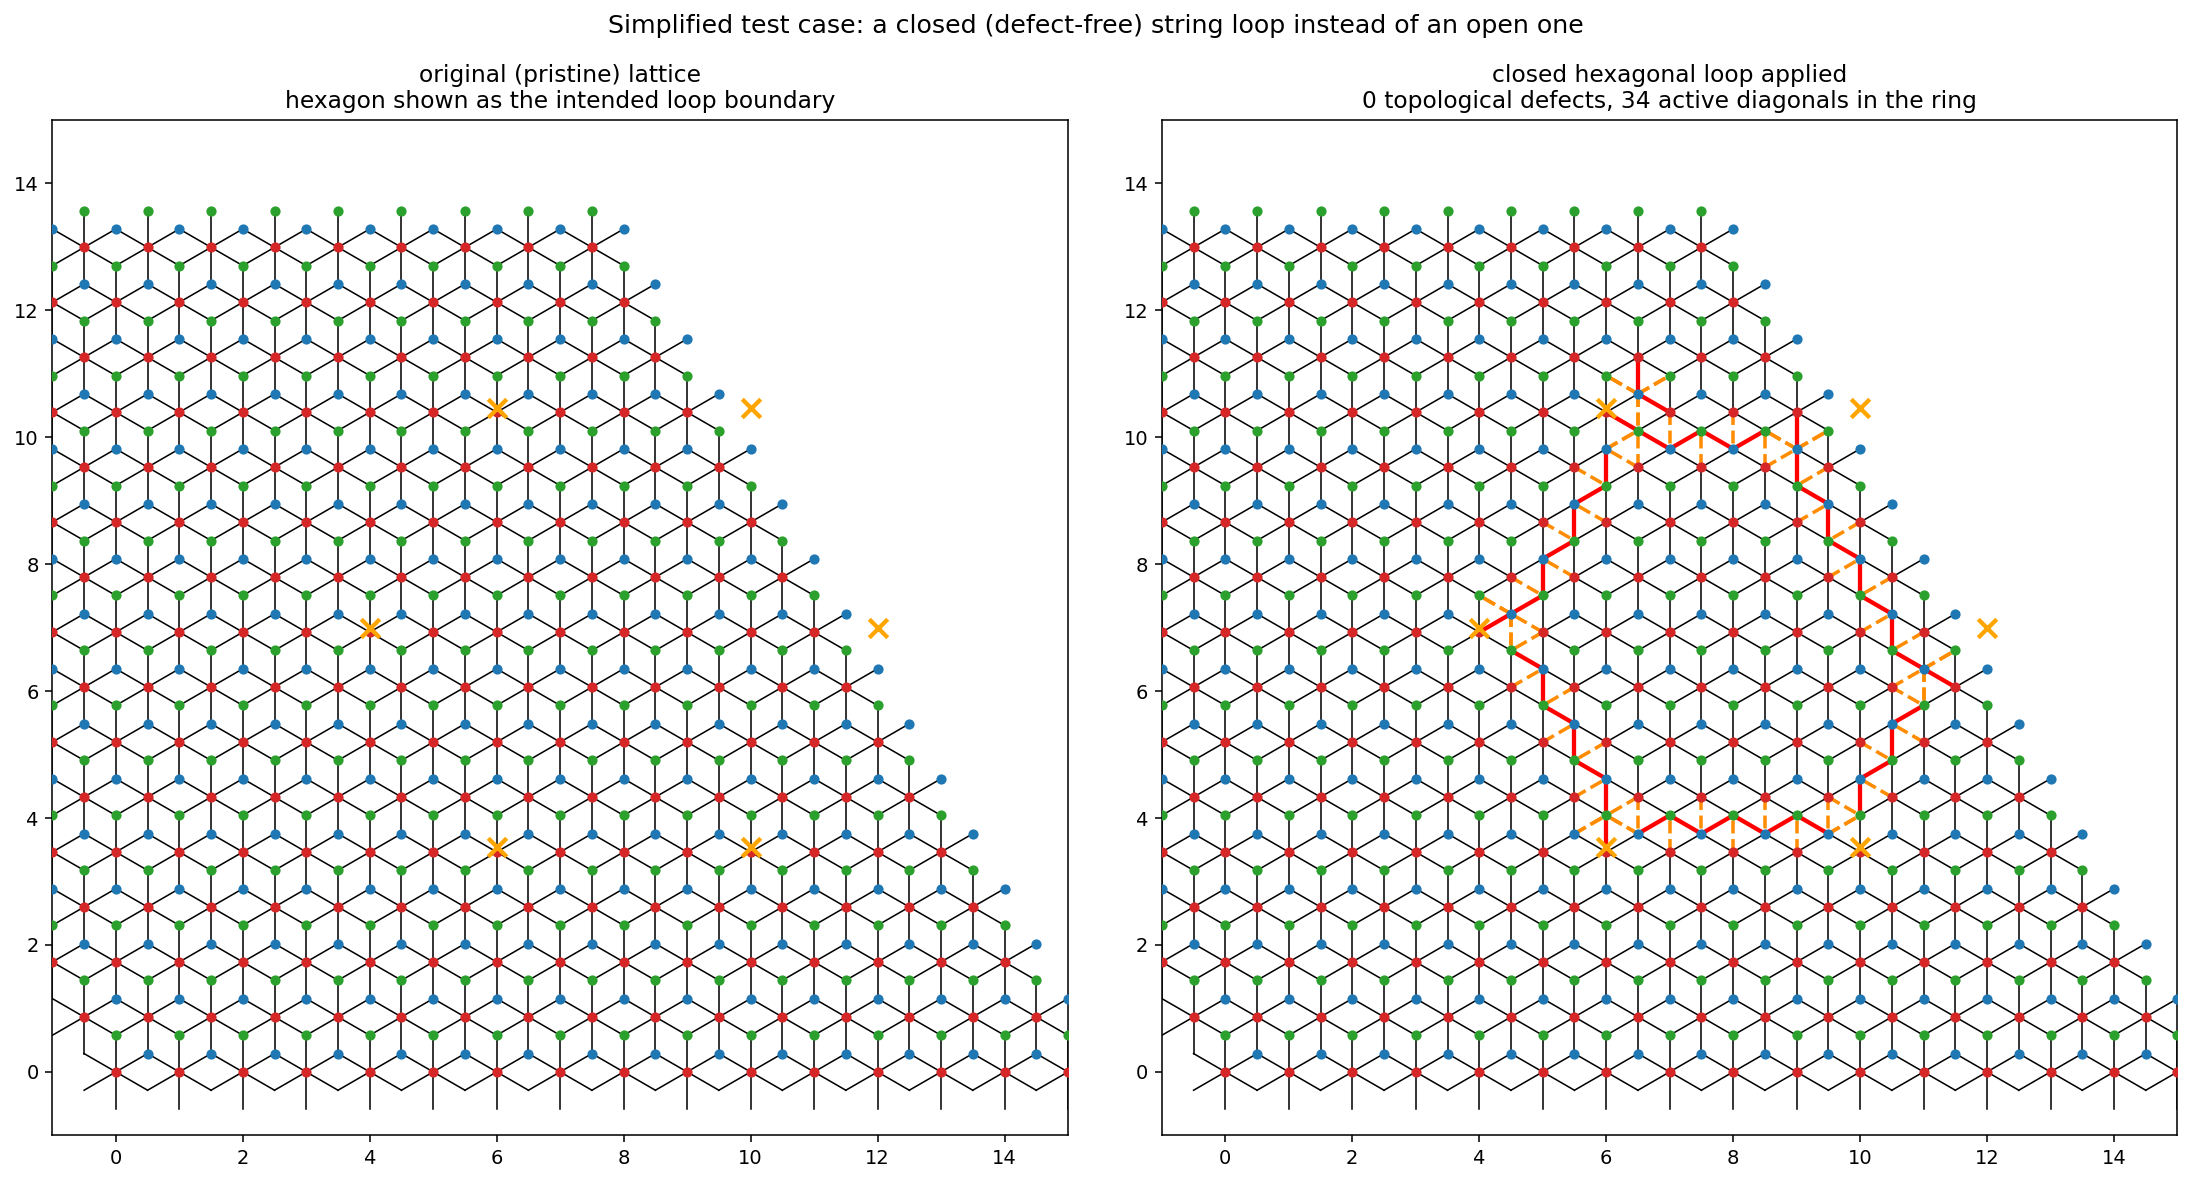
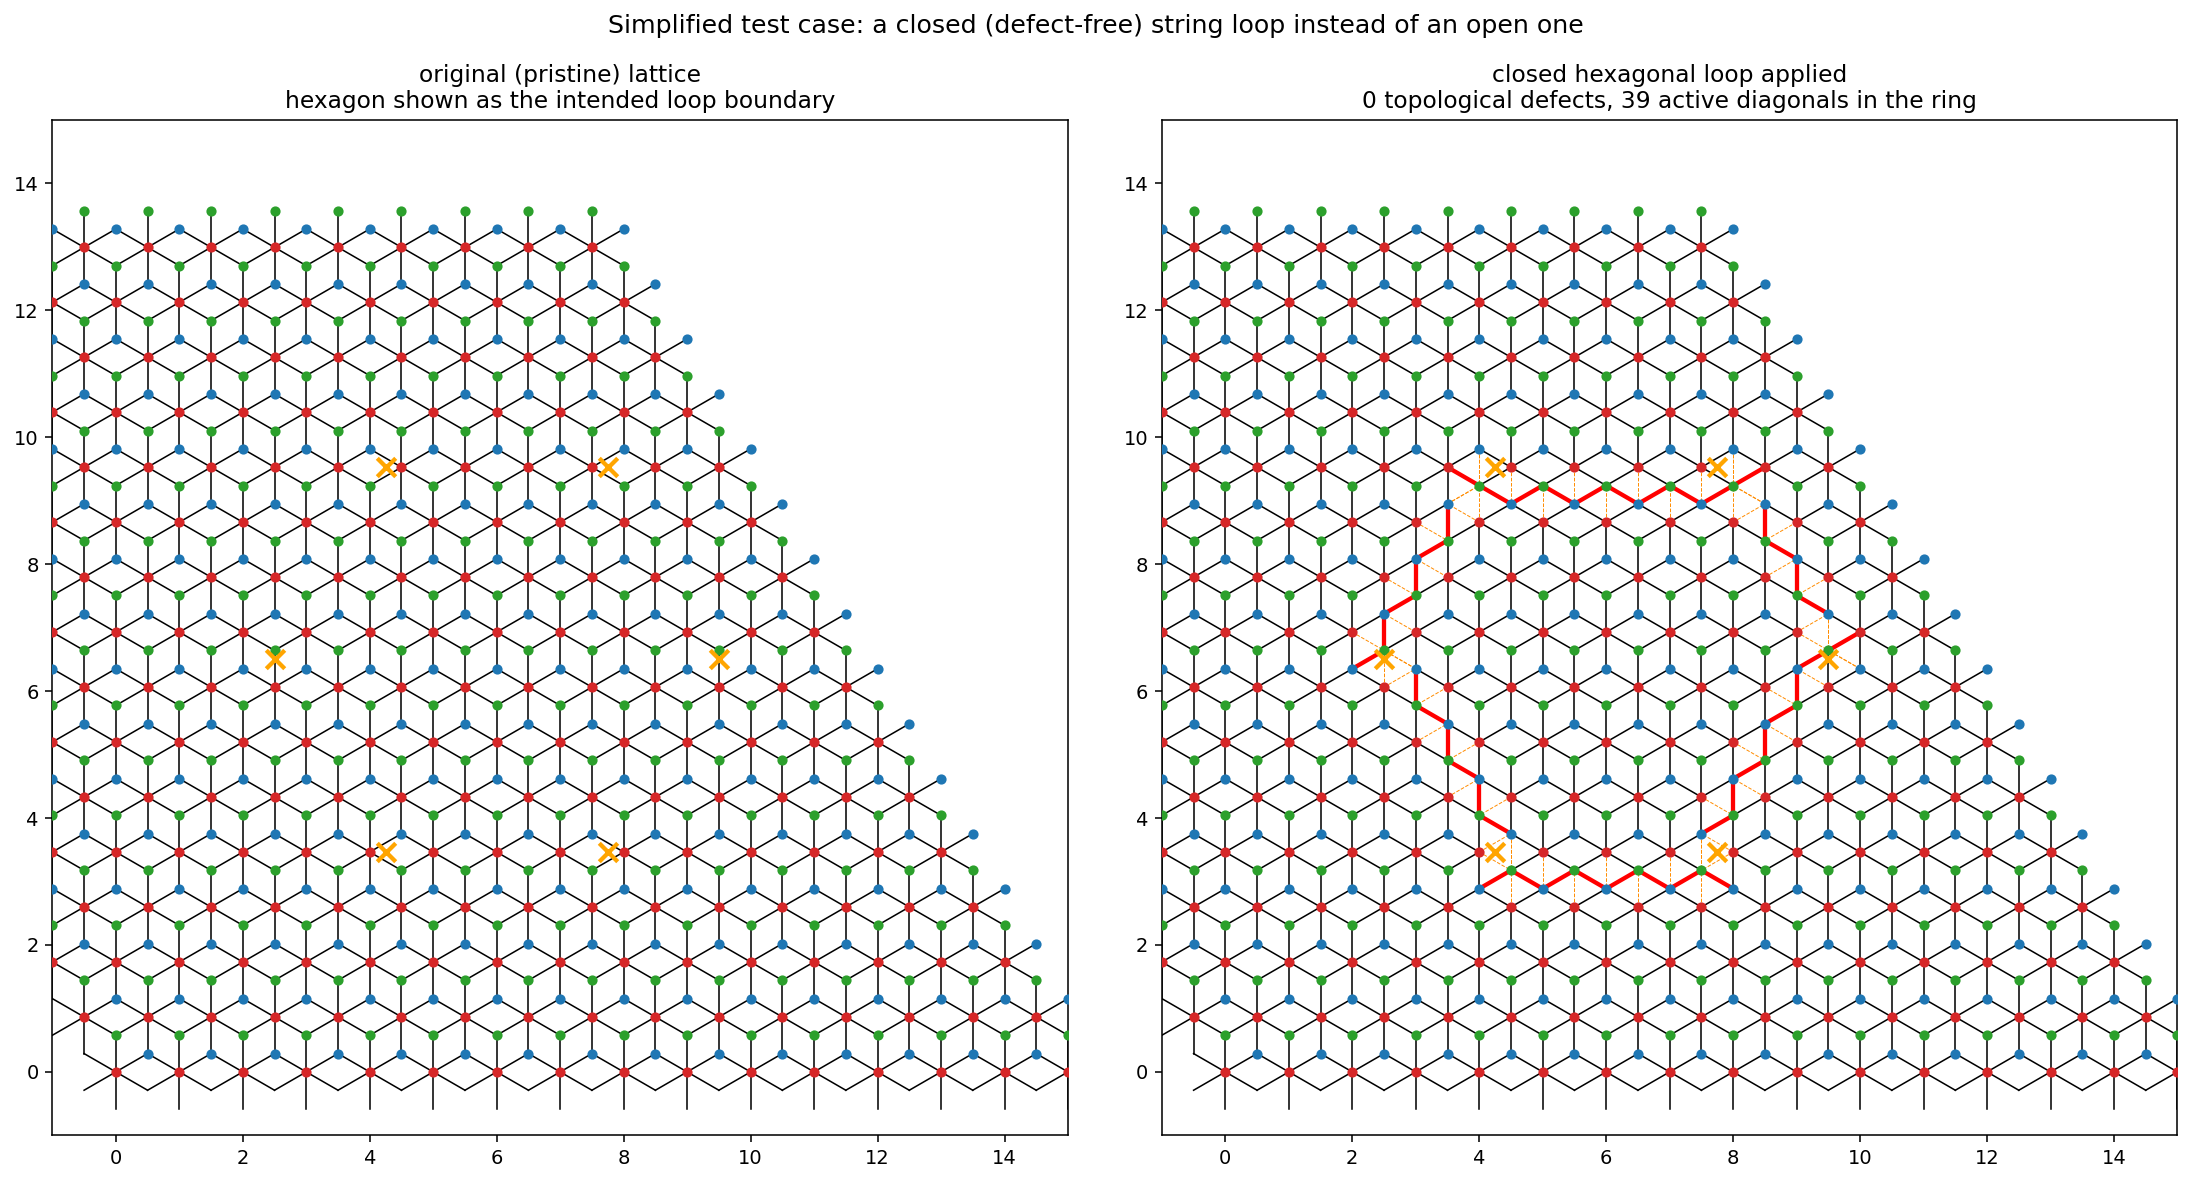
Fix closed-loop hexagon placement and de-clutter removed-link styling
Hexagon corners now sit well inside the lattice's actual (parallelogram-
shaped, not square) footprint instead of spilling past its slanted edge.
Added an off_lw option to dual_string_demo.draw_lattice (default
unchanged) so the closed-loop figure can draw removed outer edges as a
much thinner dashed line, since the full-strength dashes were confusing
next to the loop's solid highlighted diagonals.

diff --git a/closed_loop_demo.py b/closed_loop_demo.py
@@ -39,8 +39,8 @@ from dual_string_demo import draw_lattice, build_dual
 from exact_ground_state_investigation import spanning_tree_coloring_energy
 
 NX, NY = 16, 16
-CENTER = np.array([8.0, 7.0])
-RADIUS = 4.0
+CENTER = np.array([6.0, 6.5])
+RADIUS = 3.5
 N_CORNERS = 6
 
 
@@ -96,13 +96,13 @@ def closed_loop_demo():
             hub_fixed = energy_via_mincut(lat, D3)
             free = spanning_tree_coloring_energy(lat, D3)
             print(f"  {D3:<9} {hub_fixed:<19.2f} {free:.2f}")
-        print("  -> the closed loop's full active-bond graph (not just the diagonal-only\n"
-              "     conflict graph) is itself exactly 2-colorable with ZERO violations, at\n"
-              "     every D3 -- a topologically trivial (zero-net-charge) domain wall never\n"
-              "     needs the 3rd Potts state at all. hub-fixed's nonzero, D3=2-saturating\n"
-              "     curve above is therefore not just imprecise here but flatly WRONG: the\n"
-              "     same bend-induced failure mode as the open detour case, just total this\n"
-              "     time (34 claimed vs. 0 actual, instead of 53 vs. 15).")
+        print(f"  -> the closed loop's full active-bond graph (not just the diagonal-only\n"
+              f"     conflict graph) is itself exactly 2-colorable with ZERO violations, at\n"
+              f"     every D3 -- a topologically trivial (zero-net-charge) domain wall never\n"
+              f"     needs the 3rd Potts state at all. hub-fixed's nonzero, D3=2-saturating\n"
+              f"     curve above is therefore not just imprecise here but flatly WRONG: the\n"
+              f"     same bend-induced failure mode as the open detour case, just total this\n"
+              f"     time ({len(edges)} claimed vs. 0 actual, instead of 53 vs. 15).")
     else:
         print("  NON-BIPARTITE -- energy_via_mincut cannot be used; this is a genuinely "
               "new (non-bipartite-conflict-graph) case, first one found in this project.")
@@ -111,7 +111,7 @@ def closed_loop_demo():
     draw_lattice(axes[0], lat0, box=(NX, NY), targets=corners,
                  title="original (pristine) lattice\nhexagon shown as the intended loop boundary")
     draw_lattice(axes[1], lat, highlight_on=on, highlight_off=off, frustrated=ft, box=(NX, NY),
-                 targets=corners,
+                 targets=corners, off_lw=0.5,
                  title=f"closed hexagonal loop applied\n"
                        f"{len(ft)} topological defects, "
                        f"{len(edges)} active diagonals in the ring")

diff --git a/dual_string_demo.py b/dual_string_demo.py
@@ -27,7 +27,7 @@ STATE_COLORS = {0: "#8f2d56", 1: "#2a6f97", 2: "#e8792c"}  # r1-fixed, rim-defau
 
 
 def draw_lattice(ax, lattice, highlight_on=None, highlight_off=None, frustrated=None,
-                  targets=None, title="", states=None, box=None):
+                  targets=None, title="", states=None, box=None, off_lw=1.8):
     """Same convention as string_defect_demo.draw_lattice (black = active
     bonds, gold stars = frustrated triangle centroids), plus: red solid =
     bonds in `highlight_on` (rhombus diagonals just turned on), orange
@@ -52,7 +52,7 @@ def draw_lattice(ax, lattice, highlight_on=None, highlight_off=None, frustrated=
                      color=color, linewidth=lw, zorder=2 if is_hl else 1)
     for b in (highlight_off or []):
         ax.plot([b["p1"][0], b["p2"][0]], [b["p1"][1], b["p2"][1]],
-                 color="darkorange", linewidth=1.8, linestyle="--", zorder=2)
+                 color="darkorange", linewidth=off_lw, linestyle="--", zorder=2)
 
     pos, sub_of = lattice.site_positions()
     if states is None:
